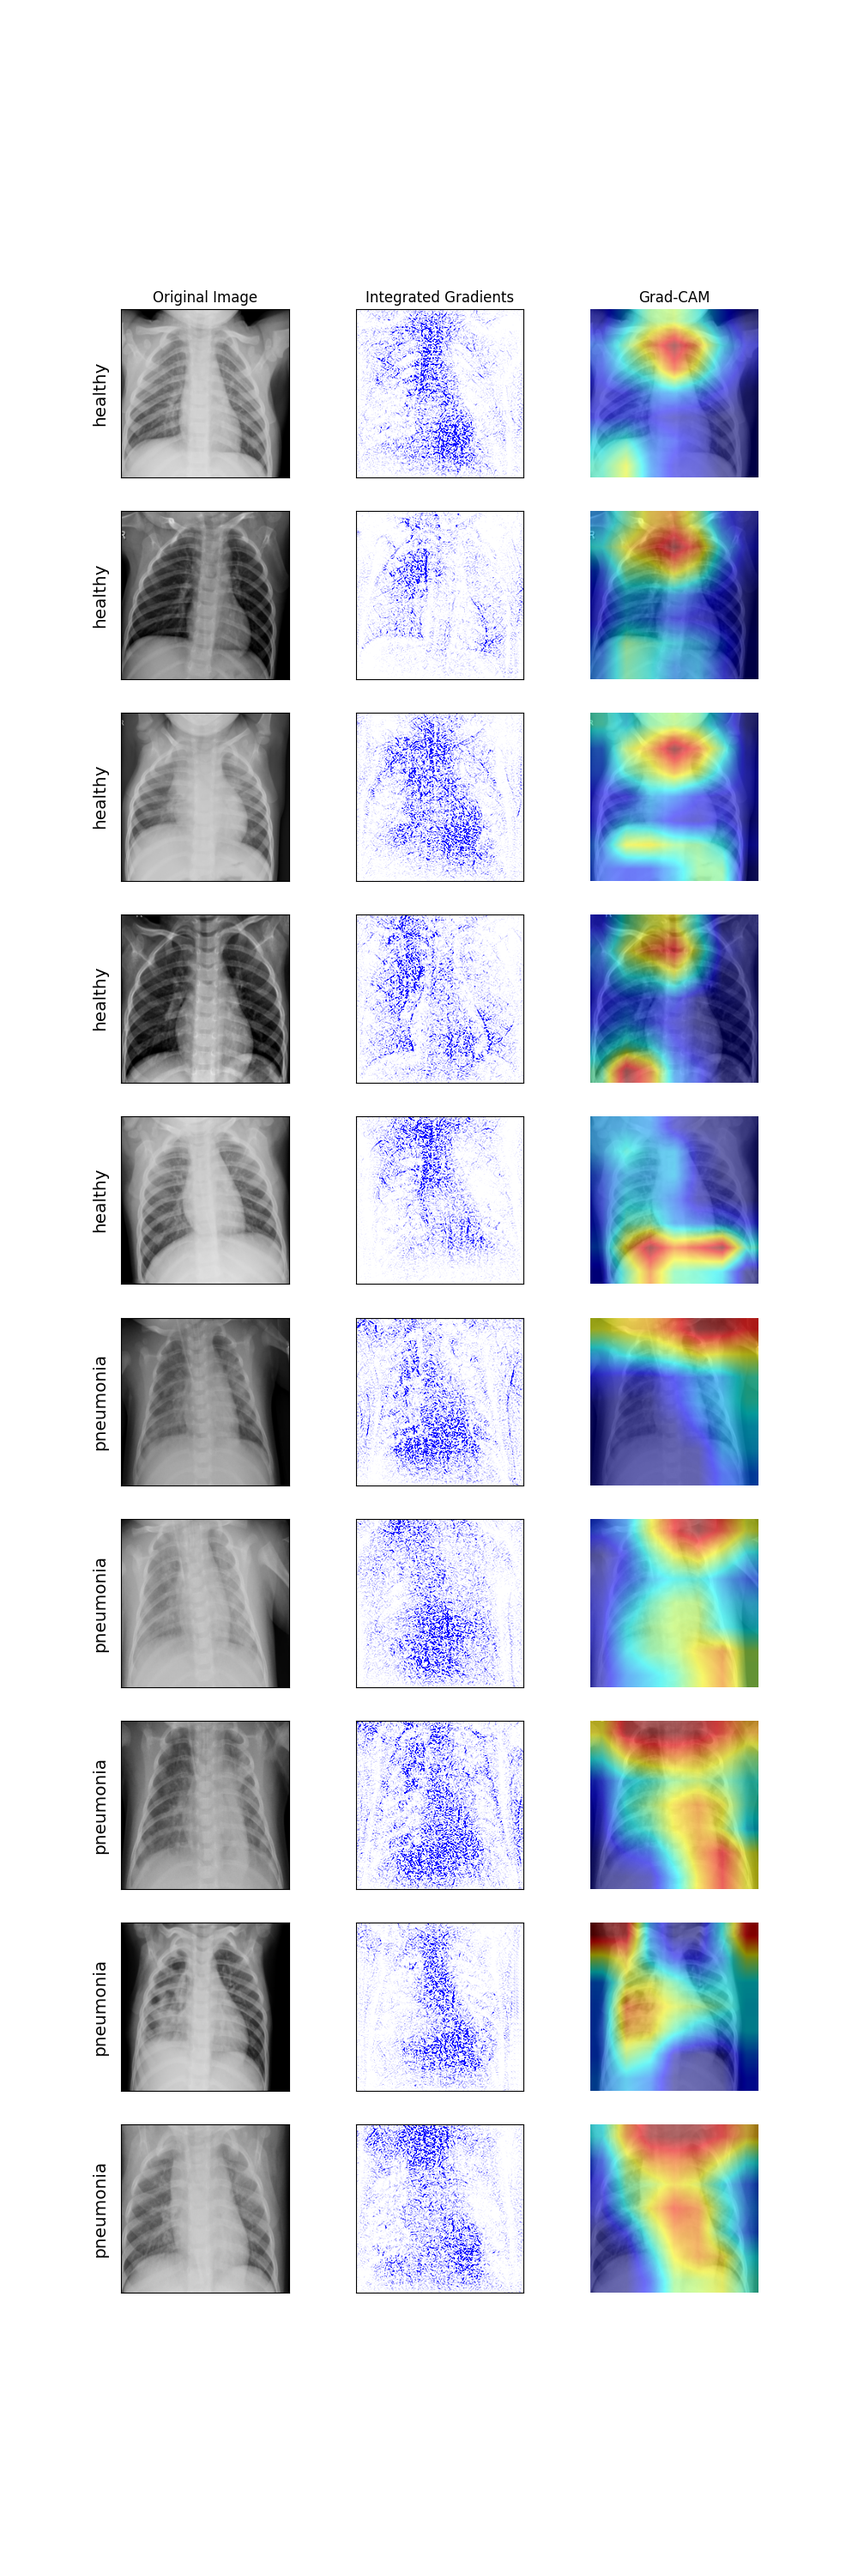
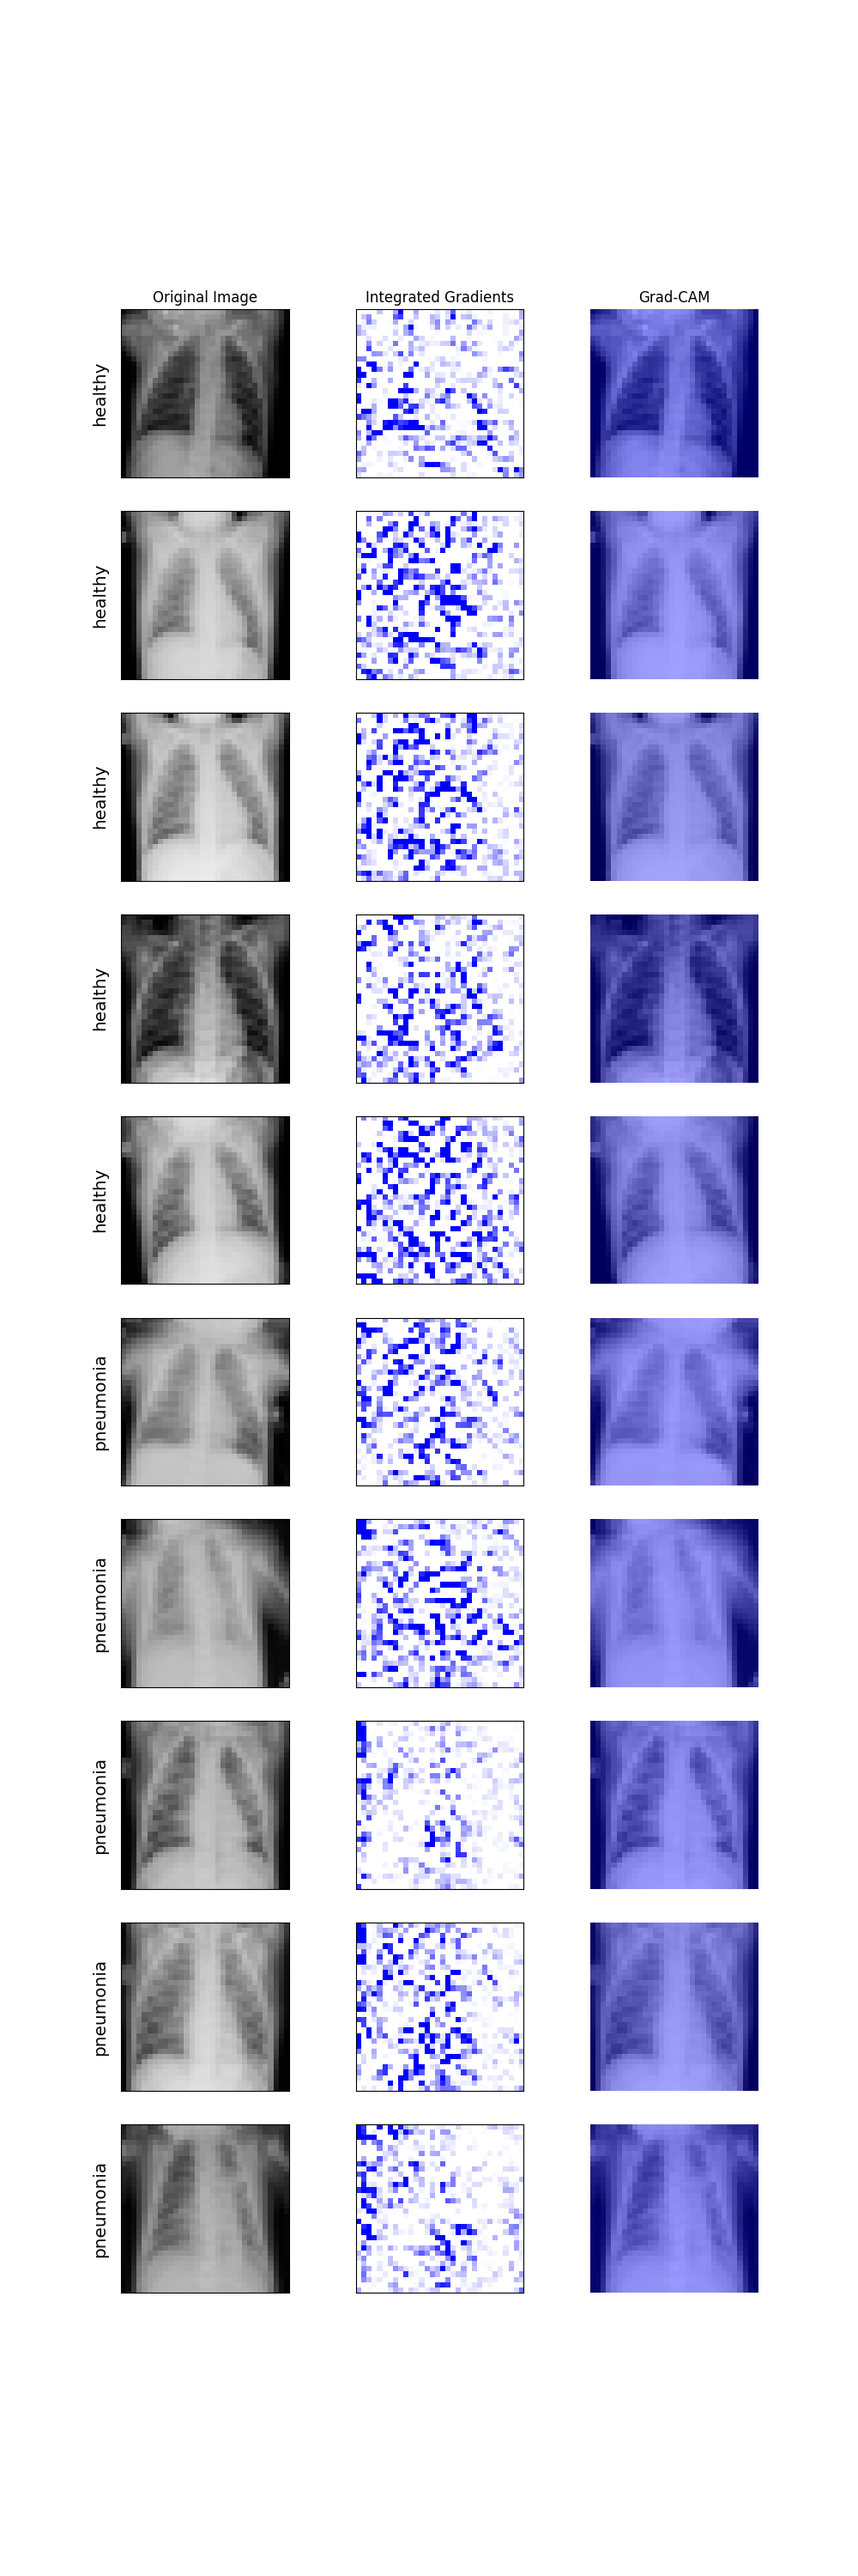
ig + gradcam plot

Changed region(s): [[0.682, 0.093, 0.899, 0.899], [0.403, 0.124, 0.62, 0.899], [0.124, 0.093, 0.341, 0.899]]

diff --git a/Part 2/integrated_gradients.py b/Part 2/integrated_gradients.py
@@ -21,9 +21,9 @@ device = "cuda"
 model_path = "models/model_224_long.pth"
 attributions_save_path = "attributions_ig.npy"
 batch_size = 1
-image_size = 256
-center_crop_size = 224
-n_images = 10
+image_size = 32
+center_crop_size = 32
+n_images = 200
 
 parser = ArgumentParser()
 parser.add_argument("--data_root", type=str, required=False, default=data_root)
@@ -35,10 +35,10 @@ transform = T.Compose([T.Resize((image_size, image_size)),
                        T.ToTensor(),
                        T.Normalize([0.485, 0.456, 0.406], [0.229, 0.224, 0.225])])
 unchanged_transform = T.Compose([T.Resize((image_size, image_size)),
-                       T.CenterCrop(center_crop_size),
-                       T.ToTensor()])
-test_dataset = XrayDataset(os.path.join(data_root, "val"), transform=transform, unchanged_transform=unchanged_transform)
-test_loader = DataLoader(test_dataset, batch_size=batch_size, shuffle=False)
+                                 T.CenterCrop(center_crop_size),
+                                 T.ToTensor()])
+test_dataset = XrayDataset(os.path.join(data_root, "test"), transform=transform, unchanged_transform=unchanged_transform)
+test_loader = DataLoader(test_dataset, batch_size=batch_size, shuffle=True)
 
 
 model = torch.hub.load('pytorch/vision:v0.10.0', 'resnet34', weights="ResNet34_Weights.IMAGENET1K_V1")
@@ -48,7 +48,11 @@ model.to(device)
 model.eval()
 ig = IntegratedGradients(model)
 
+target_layers = [model.layer4[-1]]
+cam = GradCAM(model=model, target_layers=target_layers)
+
 attributions_ig = []
+attributions_cam = []
 labels = []
 original_images = []
 
@@ -61,11 +65,17 @@ for i, (image, label, original_image) in enumerate(tqdm(test_loader)):
 
     original_images.append(np.transpose(original_image.squeeze(0).cpu().detach().numpy(), (1, 2, 0)))
     labels.append(label.item())
+
+    grayscale_cam = cam(input_tensor=image)
+    grayscale_cam = grayscale_cam[0, :]
+    attributions_cam.append(grayscale_cam)
+
     attribution_ig = np.transpose(ig.attribute(image, target=label, n_steps=200).squeeze().cpu().detach().numpy(),
                                   (1, 2, 0))
     attributions_ig.append(attribution_ig)
 
 attributions_ig = np.array(attributions_ig)
+attributions_cam = np.array(attributions_cam)
 labels = np.array(labels)
 # np.save(attributions_save_path, attributions_ig)
 
@@ -73,15 +83,20 @@ healthy_indices = np.argwhere(labels == 0).flatten()
 pneumonia_indices = np.argwhere(labels == 1).flatten()
 visualize_indices = np.concatenate((healthy_indices[:n_images // 2], pneumonia_indices[:n_images // 2]))
 
-fig, ax = plt.subplots(10, 3, figsize=(10, 30))
-
 for i, ind in enumerate(visualize_indices):
+    if not i % 10:
+        if i != 0:
+            ax[0, 2].set_title("Grad-CAM")
+            plt.savefig(f"ig_gradcam_{i // 10}.png")
+        fig, ax = plt.subplots(10, 3, figsize=(10, 30))
+
     label = "pneumonia" if labels[ind] else "healthy"
     # fig, ax = plt.subplots(1, 2)
-    ax[i, 0].set_axis_on()
+    ax[i % 10, 0].set_axis_on()
 
     _ = viz.visualize_image_attr(None, original_images[ind],
-                                 method="original_image", title="Original Image" if i == 0 else None, plt_fig_axis=(fig, ax[i, 0]),
+                                 method="original_image", title="Original Image" if not i % 10 else None,
+                                 plt_fig_axis=(fig, ax[i % 10, 0]),
                                  use_pyplot=False)
 
     default_cmap = LinearSegmentedColormap.from_list('custom blue',
@@ -94,54 +109,13 @@ for i, ind in enumerate(visualize_indices):
                                  method='heat_map',
                                  cmap=default_cmap,
                                  sign='positive',
-                                 title='Integrated Gradients' if i == 0 else None,
-                                 plt_fig_axis=(fig, ax[i, 1]),
+                                 title='Integrated Gradients' if not i % 10 else None,
+                                 plt_fig_axis=(fig, ax[i % 10, 1]),
                                  use_pyplot=False)
-    ax[i, 0].set_ylabel(label, fontsize="x-large")
+    ax[i % 10, 0].set_ylabel(label, fontsize="x-large")
+
+    gradcam_image = show_cam_on_image(original_images[ind], attributions_cam[ind], use_rgb=True)
+    ax[i % 10, 2].imshow(gradcam_image)
+    ax[i % 10, 2].set_axis_off()
 
     #plt.savefig(f"ig_{i}_{label}.png")
-
-
-########################
-# GRADCAM:
-
-# Parameters:
-attributions_save_path = "attributions_cam.npy"
-
-# Initializing GradCAM with last convolutional block of resnet model:
-target_layers = [model.layer4[-1]]
-cam = GradCAM(model=model, target_layers=target_layers)
-
-attributions_cam = []
-labels = []
-original_images = []
-
-for i, (image, label, original_image) in enumerate(tqdm(test_loader)):
-    # Preparing input tensor and feeding into GradCAM:
-    grayscale_cam = cam(input_tensor=image)
-    grayscale_cam = grayscale_cam[0, :]
-
-    original_images.append(np.transpose(original_image.squeeze(0).cpu().detach().numpy(), (1, 2, 0)))
-    attributions_cam.append(grayscale_cam)
-    labels.append(label.item())
-
-attributions_cam = np.array(attributions_cam)
-labels = np.array(labels)
-# np.save(attributions_save_path, attributions_cam)
-
-healthy_indices = np.argwhere(labels == 0).flatten()
-pneumonia_indices = np.argwhere(labels == 1).flatten()
-# visualize_indices = np.concatenate((healthy_indices[:n_images // 2], pneumonia_indices[:n_images // 2]))
-
-for i, ind in enumerate(visualize_indices):
-    label = "pneumonia" if labels[ind] else "healthy"
-
-    gradcam_image = visualization = show_cam_on_image(original_images[ind],
-                                                      attributions_cam[ind], use_rgb=True)
-    ax[i, 2].imshow(gradcam_image)
-    ax[i, 2].set_axis_off()
-
-    # plt.savefig(os.path.join(image_save_path, f"gradcam_{i}_{label}.png"))
-
-ax[0, 2].set_title("Grad-CAM")
-plt.savefig(f"ig_gradcam_10_images.png")
